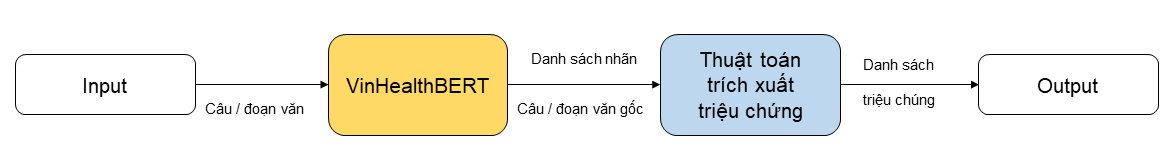
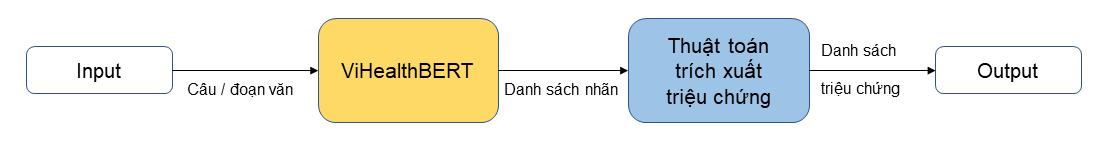
Report updated

Changed region(s): [[0.0, 0.1103, 1.0, 0.8552], [0.0, 0.3034, 0.1846, 0.3862], [0.0615, 0.4414, 0.1231, 0.5793]]

diff --git a/README.md b/README.md
@@ -5,8 +5,11 @@ This repository stores (mostly) homeworks.
 
 ## Topics
 
+### Final
+- We creatd a Symptoms Extraction, using [ViHealthBERT](https://github.com/trhgquan/DemoVnHealthBERT).
+
 ### Homework
-- Create a GitHub Crawler, in which receive a Paper Name and output the GitHub links of that paper's implementation.
+- I created a GitHub Crawler, in which receive a Paper Name and output the GitHub links of that paper's implementation.
 
 ### Practice
 - TREC Classification: question type classification, using TREC dataset.
